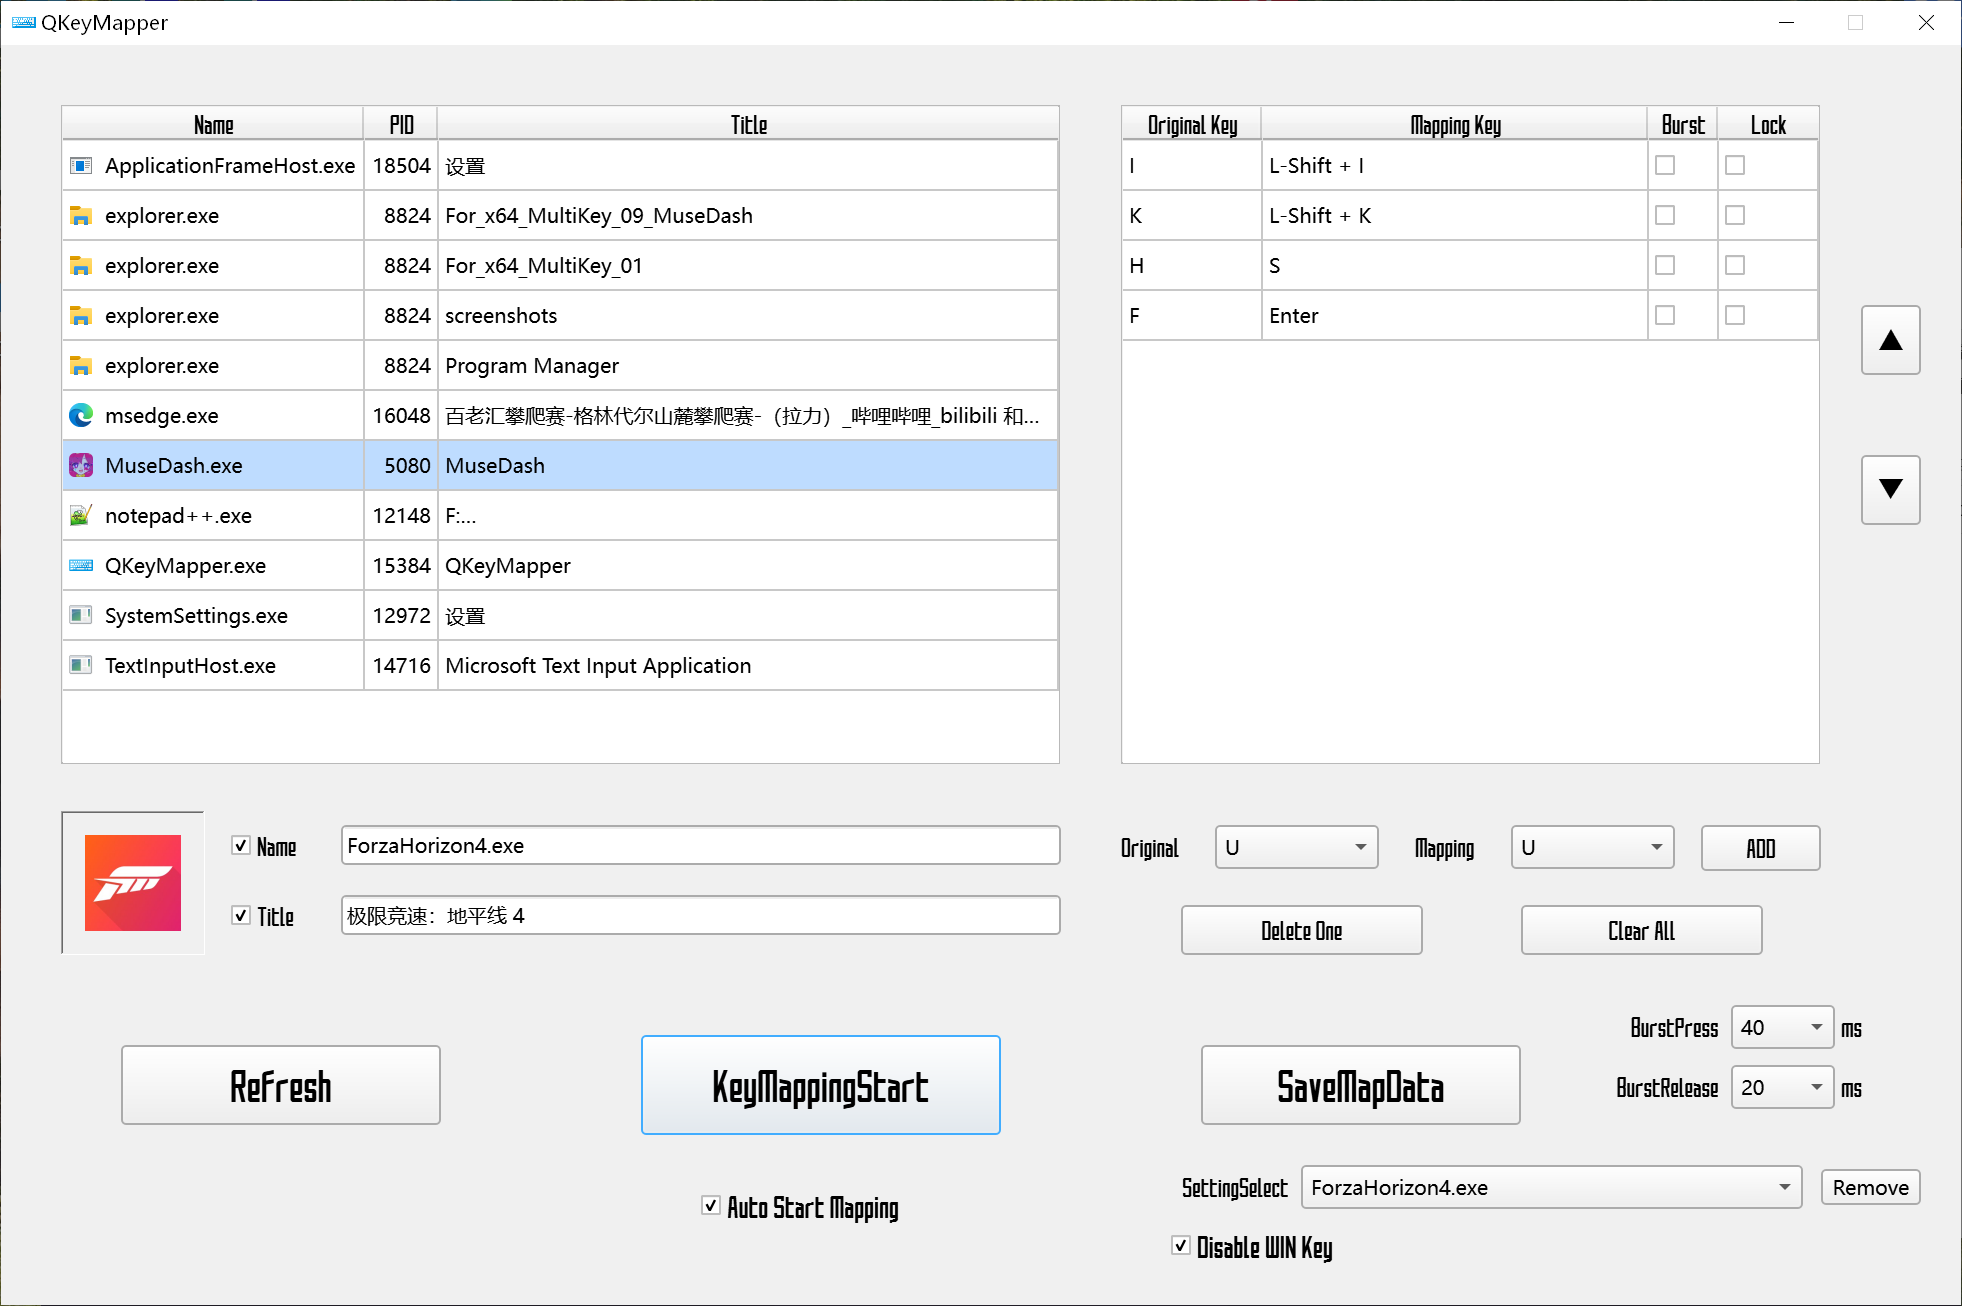
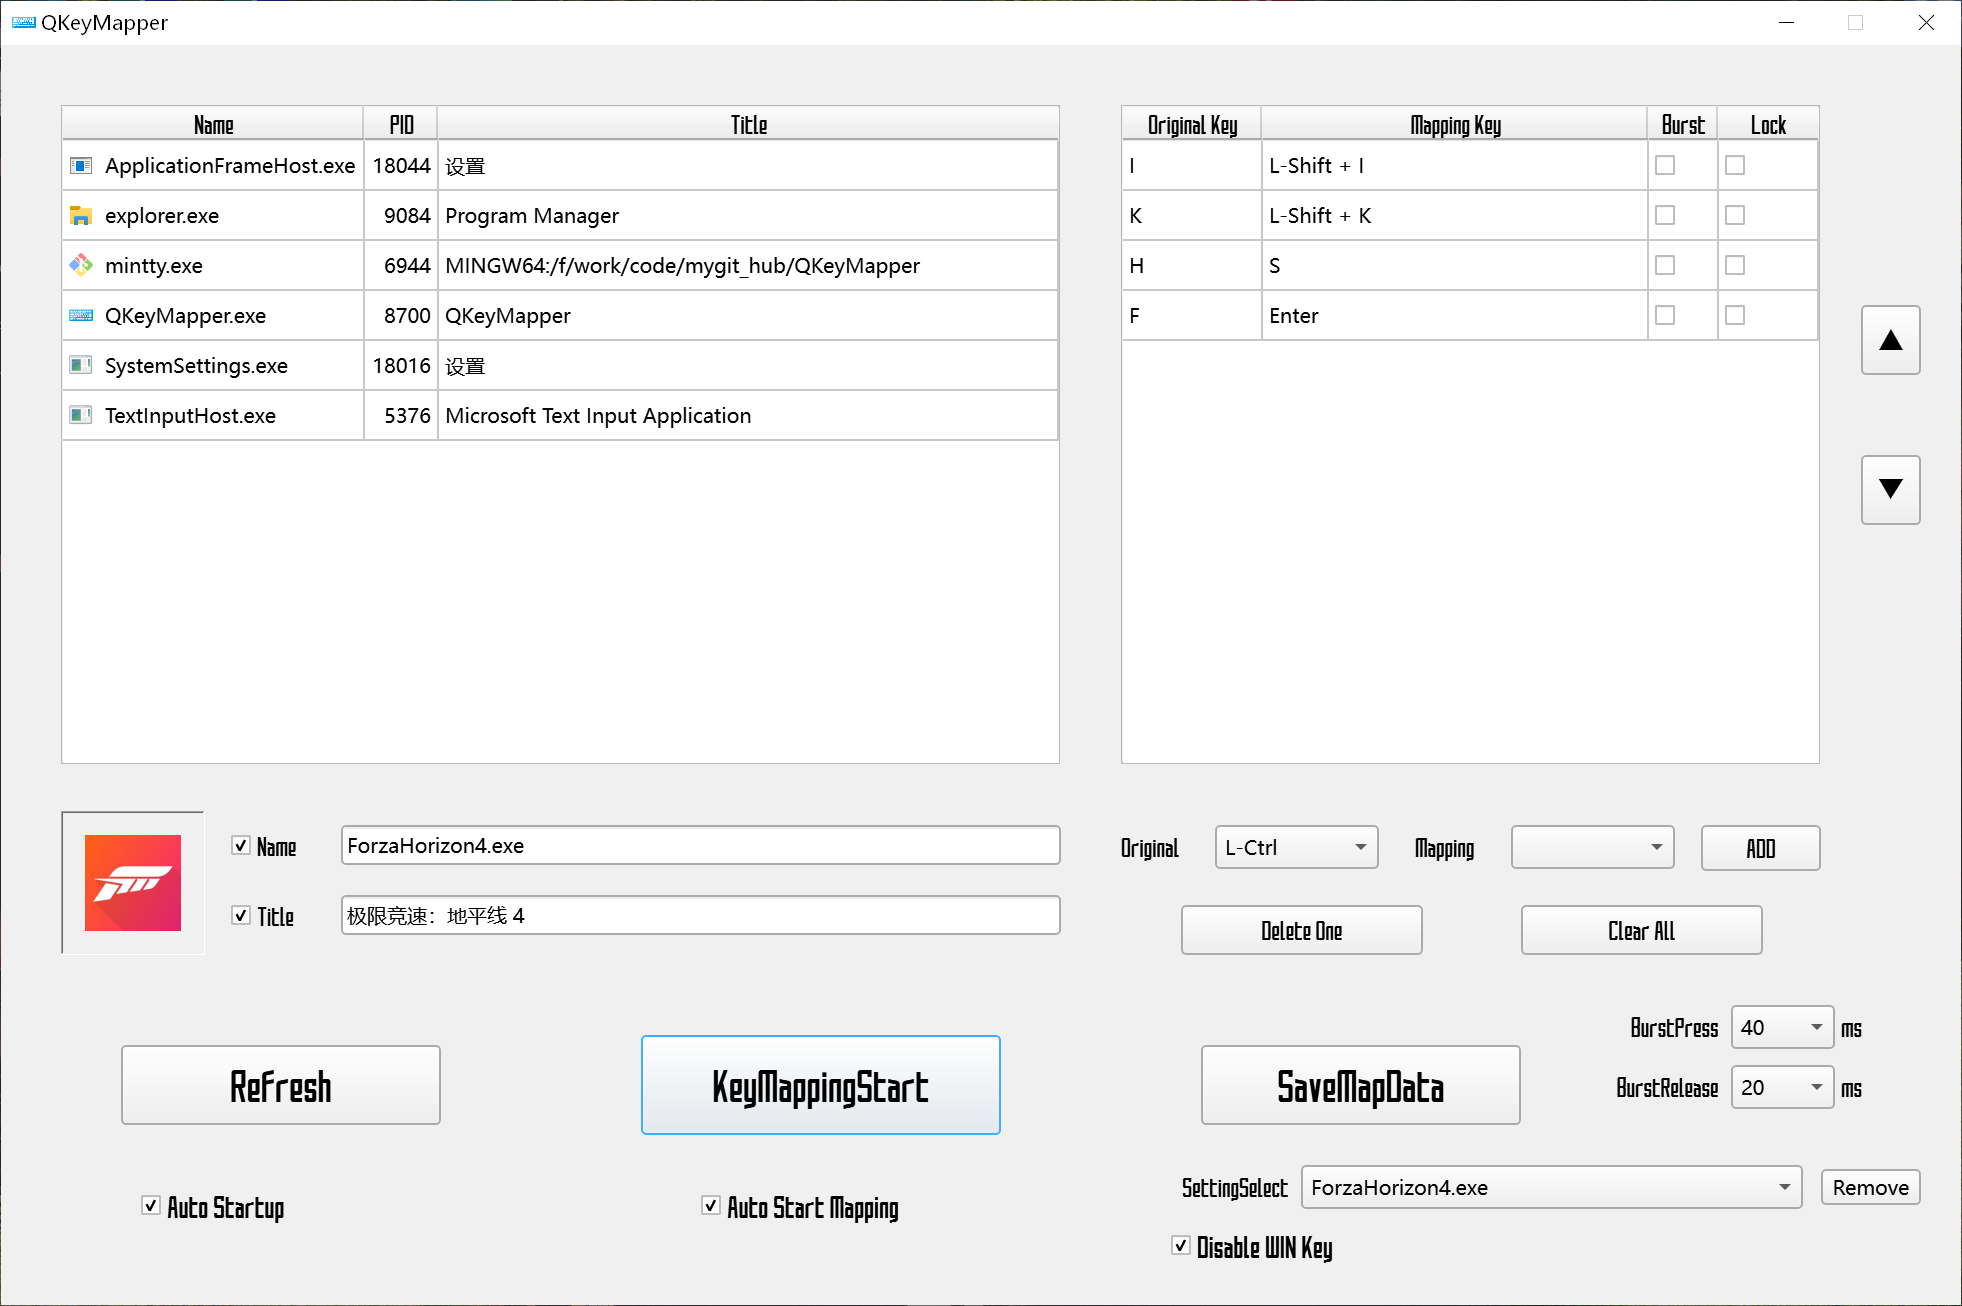
Add v1.3.1 readme.

diff --git a/README.md b/README.md
@@ -16,7 +16,10 @@
 12. 加入了"Auto Start Mapping"功能可以让程序启动后自动根据加载的配置文件开始键盘映射，并且最小化到系统托盘, 。
 13. 增加了SelectSetting下拉列表，可以保存最多10组不同的设定，并且通过下拉列表随时切换。
 14. 增加了支持将鼠标左键&右键&中键与键盘按键进行互相映射。
-15. v1.3.0版本开始支持"SaveMapData"可以将多个程序的不同键盘映射配置都保存到"keymapdata.ini"文件中。如果配置了"Auto Start Mapping"功能，那么在"KeyMappingStart"状态下会根据当前前台窗口的进程可执行文件名进行自动匹配切换到对应的键盘映射配置。
+15. v1.3.0 -> 版本开始支持"SaveMapData"可以将多个程序的不同键盘映射配置都保存到"keymapdata.ini"文件中。如果配置了"Auto Start Mapping"功能，那么在"KeyMappingStart"状态下会根据当前前台窗口的进程可执行文件名进行自动匹配切换到对应的键盘映射配置。
+16. v1.3.1 -> "Auto Startup"勾选框可以让QKeyMapper键盘映射程序在Windows用户登录的时候自动启动，配合"Auto Start Mapping"勾选框开机启动后可以自动最小化到系统托盘图标，取消勾选框则取消开机登录自动启动。
+17. v1.3.1 -> 加入单例进程支持，只能同时运行一个QKeyMapper程序, 运行第二个QKeyMapper程序时会将第一个运行的实例程序窗口显示到前台。
+
 
 ## A keyboard remap tool of Qt Widget + WinAPI which could working under Win10 & Win11. v1.2.8 (2022-12-24) has update the support for Qt6, v1.2.8 and later Releases will build by Qt6.
 
@@ -35,7 +38,9 @@
 12. "Auto Start Mapping" checkbox could auto start mapping at program startup, and minimize it to System tray.
 13. Add "SelectSetting" combobox to support multi settings selection, could save upto 10 different settings, and switch them by "SelectSetting" combobox.
 14. Add support mouse left&right&middle button to mapping with keyborad keys.
-15. v1.3.0 start to support save multi different program's keymap settings to "keymapdata.ini" config file. If "Auto Start Mapping" is checked for the keymap setting, it will check foreground window's executable file name to match saved program keymap settings in "keymapdata.ini" config file automatically at "KeyMappingStart" state. If there is a matched keymap setting, it will load this setting and start key mapping automatically.
+15. v1.3.0 -> Start to support save multi different program's keymap settings to "keymapdata.ini" config file. If "Auto Start Mapping" is checked for the keymap setting, it will check foreground window's executable file name to match saved program keymap settings in "keymapdata.ini" config file automatically at "KeyMappingStart" state. If there is a matched keymap setting, it will load this setting and start key mapping automatically.
+16. v1.3.1 -> "Auto Startup" checkbox could launch QKeyMapper program at Windows user logon, it could work with "Auto Start Mapping" checkbox.
+17. v1.3.1 -> Add SingleApplication support, there could be only one QKeyMapper program instance at the same time. Launch second QKeyMapper program will only bring first QKeyMapper instance to Forgeground Window.
 
 ## Screenshot
 ![Screenshot](https://raw.githubusercontent.com/Zalafina/QKeyMapper/master/screenshot/QKeyMapper_screenshot_02.png)
